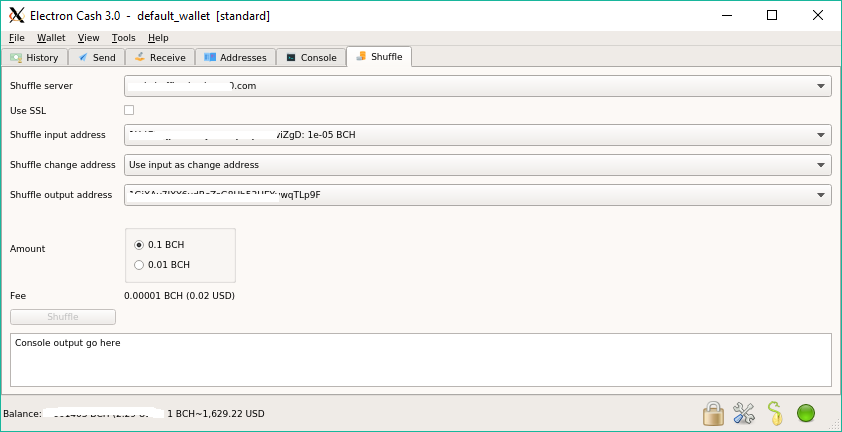
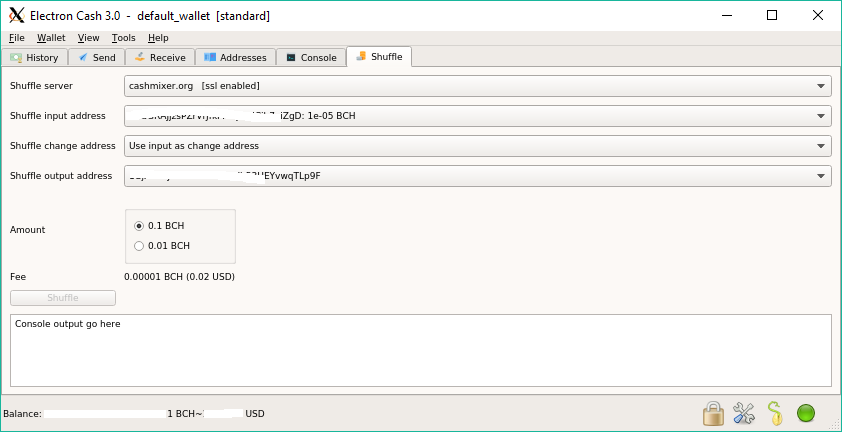
add server list

diff --git a/shuffle/qt.py b/shuffle/qt.py
@@ -184,7 +184,8 @@ class Plugin(BasePlugin):
             server = server_params['server']
             port = server_params['port']
             # ssl = self.window.config.get('coinshufflessl')
-            ssl = self.coinshuffle_use_ssl.isChecked()
+            # ssl = self.coinshuffle_use_ssl.isChecked()
+            ssl = server_params.get('ssl', False)
         except:
             self.coinshuffle_text_output.setText('Wrong server connection string')
             return
@@ -243,7 +244,7 @@ class Plugin(BasePlugin):
         grid.setColumnStretch(3, 1)
 
         self.coinshuffle_servers = ServersList()
-        self.coinshuffle_use_ssl = QCheckBox()
+        # self.coinshuffle_use_ssl = QCheckBox()
         self.coinshuffle_inputs = InputAdressWidget(decimal_point = self.window.get_decimal_point)
         self.coinshuffle_changes = ChangeAdressWidget()
         self.coinshuffle_outputs = OutputAdressWidget()
@@ -258,14 +259,14 @@ class Plugin(BasePlugin):
         self.coinshuffle_start_button.setEnabled(False)
 
         grid.addWidget(QLabel(_('Shuffle server')), 1, 0)
-        grid.addWidget(QLabel(_('Use SSL')), 2, 0)
+        # grid.addWidget(QLabel(_('Use SSL')), 2, 0)
         grid.addWidget(QLabel(_('Shuffle input address')), 3, 0)
         grid.addWidget(QLabel(_('Shuffle change address')), 4, 0)
         grid.addWidget(QLabel(_('Shuffle output address')), 5, 0)
         grid.addWidget(QLabel(_('Amount')), 6, 0)
         grid.addWidget(QLabel(_('Fee')), 7, 0)
         grid.addWidget(self.coinshuffle_servers, 1, 1,1,-1)
-        grid.addWidget(self.coinshuffle_use_ssl, 2, 1)
+        # grid.addWidget(self.coinshuffle_use_ssl, 2, 1)
         grid.addWidget(self.coinshuffle_inputs,3,1,1,-1)
         grid.addWidget(self.coinshuffle_changes,4,1,1,-1)
         grid.addWidget(self.coinshuffle_outputs,5,1,1,-1)

diff --git a/shuffle/shuffle.py b/shuffle/shuffle.py
@@ -227,10 +227,12 @@ class ServersList(QComboBox):
 
     def setItems(self):
         for server in self.servers_list:
-            self.addItem(server)
+            ssl = self.servers_list[server].get('ssl')
+            item = server + ('   [ssl enabled]' if ssl else '   [ssl disabled]')
+            self.addItem(item)
 
     def get_current_server(self):
-        current_server =  self.currentText()
+        current_server =  self.currentText().split(' ')[0]
         server = self.servers_list.get(current_server)
         server['server' ] = current_server
         return server

diff --git a/README.md b/README.md
@@ -41,8 +41,6 @@ Replace this text with
 
 1. Choose server from servers list
 
-2. Check `Use SSL` if you want to use SSL
-
 3. Use `Shuffle input address` to choose coin which you want to shuffle. This list of coins is formed from  the UTXO's of your wallet.
 
 4. From `Shuffle change address` choose the address for your change. You can leave this as the default setting if you want to use input address as change address.
@@ -71,7 +69,9 @@ If you want to add your server to the list follow the next structure:
 {
    "your.server.here":
    {
-     "port" : port number
+     "port" : 31415,
+     "ssl": true	
    }
 }
-```
+
+`"port"` value should be integer value of your server port and `ssl` should be boolean value of ssl support.
